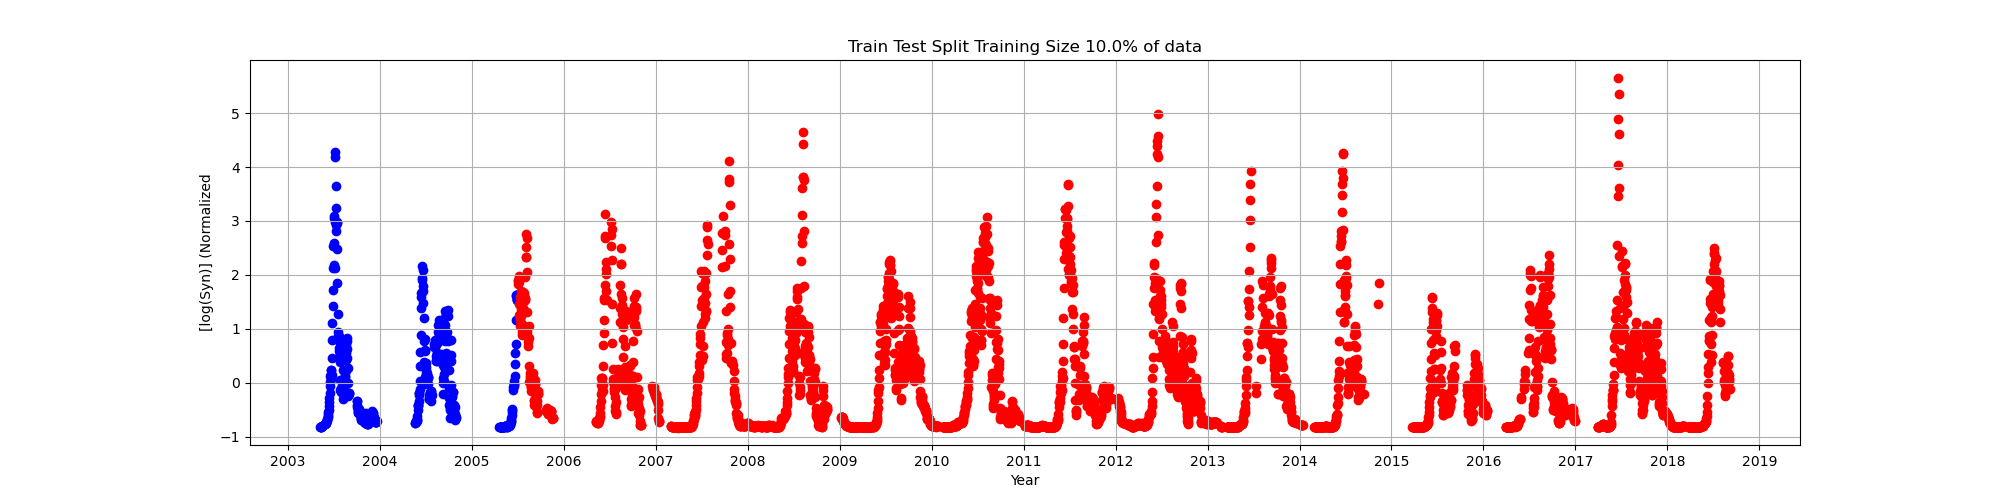
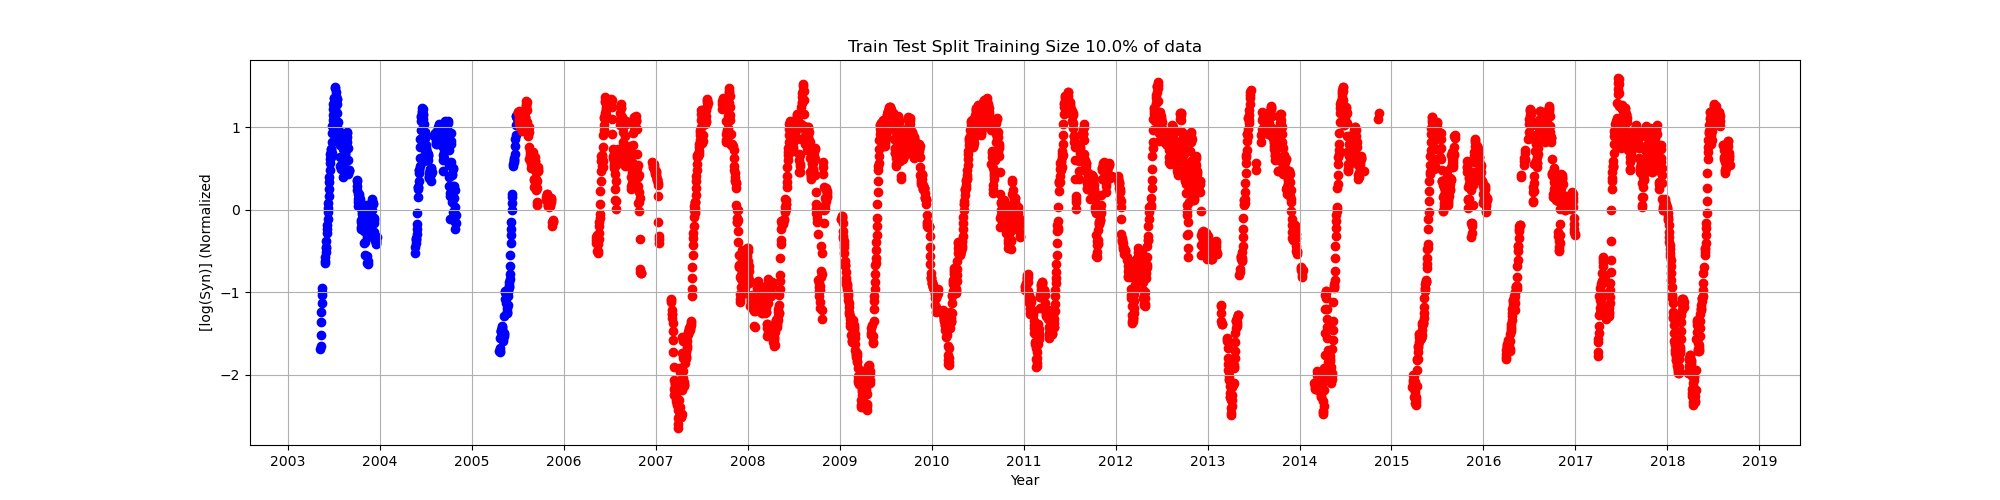
took log of y value

Changed region(s): [[0.124, 0.15, 0.899, 0.87]]

diff --git a/train/train.py b/train/train.py
@@ -45,7 +45,7 @@ if __name__ == '__main__':
     print(df.head())
     dfsubset = df.dropna(subset=config.dependent) #dropping na values #TODO: fix spectral model so that it can handle missing observations
     X = torch.tensor(dfsubset.index, dtype=torch.float32)
-    y = torch.tensor(dfsubset[config.dependent].values, dtype=torch.float32)
+    y = torch.tensor(np.log(dfsubset[config.dependent].values), dtype=torch.float32)
 
     X_train, y_train, X_test, y_test = define_training_data(X, y, train_size=config.train_size, normalize=True)
 

diff --git a/train/train_spectralGP_local.py b/train/train_spectralGP_local.py
@@ -6,9 +6,7 @@ import sys
 
 sys.path.append(os.getcwd())
 
-import yaml
-import models.spectralGP_model
-from train.train_utils import *
+from train_utils import *
 
 import wandb  # library for tracking and visualization
 
